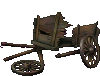
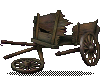
Stand-ins: tidy the roadmap, paint two barrels, ground the painted props
The roadmap still listed as stand-ins several things Phase 20 had
already drawn by hand: the five-angle enemies, the ceilings, the sky
panoramas and the Kestrel flyover, the item icons and the Chapel seen
beyond the Hedge. Those lines are ticked with what shipped, the
festivals line names the four Phase 12 festivals (Hearthday is a
weekday, not a feast), and the partly painted props, flora and decals
lines say exactly which stand-ins are left.

Painting goes on through Canva's image generator, the one source this
session can reach: the open barrel and the barrel on its side, keyed by
tools/art/painted20/key.py and given depth by the pixel-3D bake. The
keying now lays each prop's drawn stand-in contact shadow under the
painting (the Phase 20b props seemed to hover over the lighting
module's soft shadow without it); the bake keeps those pixels flat.

Claude-Session: https://claude.ai/code/session_01BVzyvAqHcu7M4NDDh1GVjc

diff --git a/js/pixel3d.js b/js/pixel3d.js
@@ -35,7 +35,7 @@ const PIXEL3D = (() => {
   const POSES = ['', '_w1', '_w2', '_a1', '_a2'];
   // model -> { f: file, v: version, k: 'creature' | 'prop', c: { 'view|pose': [x, y, w, h, hs, cx, dy] } }
   // @@ATLAS-BEGIN (generated by tools/art/pixel3d/voxelise.py; do not edit by hand)
-  const ATLAS = {"bed":{"f":"bed.png","v":"63bf5246","k":"prop","c":{"0|":[0,0,130,90,1.0,0.5,0.003]}},"grave":{"f":"grave.png","v":"81536eb2","k":"prop","c":{"0|":[0,0,76,110,1.0,0.5,-0.0021]}},"gear":{"f":"gear.png","v":"bbdba8ce","k":"prop","c":{"0|":[0,0,140,85,1.0,0.5036,0.0018]}},"cocoon":{"f":"cocoon.png","v":"92fe7d59","k":"prop","c":{"0|":[0,0,41,158,0.9875,0.5,-0.0125]}},"loot":{"f":"loot.png","v":"b66efd2b","k":"prop","c":{"0|":[0,0,126,110,1.0,0.5,0.0002]}},"cores":{"f":"cores.png","v":"51d57000","k":"prop","c":{"0|":[0,0,79,90,1.0,0.5,0.0014]}},"grate":{"f":"grate.png","v":"46d31249","k":"prop","c":{"0|":[0,0,147,110,1.0,0.5,0.0004]}},"p_barrel":{"f":"p_barrel.png","v":"3caab7d7","k":"prop","c":{"0|":[0,0,41,64,1.0,0.5,-0.0006]}},"crates":{"f":"crates.png","v":"f5cf87d3","k":"prop","c":{"0|":[0,0,71,110,1.0,0.5,-0.0039]}},"loom":{"f":"loom.png","v":"44138bac","k":"prop","c":{"0|":[0,0,94,150,1.0,0.5,-0.0018]}},"hearth":{"f":"hearth.png","v":"b5ba60f1","k":"prop","c":{"0|":[0,0,96,130,1.0,0.5,0.0003]}},"lever":{"f":"lever.png","v":"7a4ae036","k":"prop","c":{"0|":[0,0,52,111,1.0091,0.5,0.0041]}},"lifttank":{"f":"lifttank.png","v":"0eeaa700","k":"prop","c":{"0|":[0,0,61,140,1.0,0.5,0.0015]}},"lamp":{"f":"lamp.png","v":"cb44c707","k":"prop","c":{"0|":[0,0,28,108,0.9818,0.5,-0.0032]}},"basin":{"f":"basin.png","v":"06070993","k":"prop","c":{"0|":[0,0,81,90,1.0,0.5,0.002]}},"web":{"f":"web.png","v":"bf69ca17","k":"prop","c":{"0|":[0,0,74,110,1.0,0.5,-0.0028]}},"p_crate":{"f":"p_crate.png","v":"92f1e068","k":"prop","c":{"0|":[0,0,51,56,1.0,0.5098,-0.0052]}},"chest":{"f":"chest.png","v":"a5d98ef9","k":"prop","c":{"0|":[0,0,140,109,1.0,0.5036,-0.0008]}},"press":{"f":"press.png","v":"b872f91d","k":"prop","c":{"0|":[0,0,60,110,1.0,0.5083,-0.0009]}},"chair":{"f":"chair.png","v":"82c2c4c8","k":"prop","c":{"0|":[0,0,49,109,0.9909,0.5,0.0033]}},"coil":{"f":"coil.png","v":"c15d7d5e","k":"prop","c":{"0|":[0,0,28,104,0.9455,0.5,-0.0214]}},"kestrel":{"f":"kestrel.png","v":"b27066e1","k":"prop","c":{"0|":[0,0,276,170,1.0,0.5,-0.0015]}},"pump":{"f":"pump.png","v":"05fa0b8c","k":"prop","c":{"0|":[0,0,87,150,1.0,0.5,0.0019]}},"sign":{"f":"sign.png","v":"b2df66ca","k":"prop","c":{"0|":[0,0,64,130,1.0,0.5,0.0033]}},"ladder":{"f":"ladder.png","v":"193abd80","k":"prop","c":{"0|":[0,0,36,200,1.0,0.5,-0.0025]}},"hollow":{"f":"hollow.png","v":"abf9ac45","k":"creature","c":{"0|":[0,0,49,158,0.9875,0.5,-0.0027],"2|":[50,0,21,158,0.9875,0.5,-0.0027],"4|":[72,0,49,158,0.9875,0.5,-0.0027],"6|":[122,0,21,158,0.9875,0.5,-0.0027],"0|_w1":[0,159,49,158,0.9875,0.5,-0.0027],"2|_w1":[50,159,21,158,0.9875,0.5,-0.0027],"4|_w1":[72,159,49,158,0.9875,0.5,-0.0027],"6|_w1":[122,159,21,158,0.9875,0.5,-0.0027],"0|_w2":[0,318,49,158,0.9875,0.5,-0.0027],"2|_w2":[50,318,21,158,0.9875,0.5,-0.0027],"4|_w2":[72,318,49,158,0.9875,0.5,-0.0027],"6|_w2":[122,318,21,158,0.9875,0.5,-0.0027],"0|_a1":[0,477,49,158,0.9875,0.5,-0.0027],"2|_a1":[50,477,21,158,0.9875,0.5,-0.0027],"4|_a1":[72,477,49,158,0.9875,0.5,-0.0027],"6|_a1":[122,477,21,158,0.9875,0.5,-0.0027],"0|_a2":[0,636,49,158,0.9875,0.5,-0.0027],"2|_a2":[50,636,21,158,0.9875,0.5,-0.0027],"4|_a2":[72,636,49,158,0.9875,0.5,-0.0027],"6|_a2":[122,636,21,158,0.9875,0.5,-0.0027]}},"orla":{"f":"orla.png","v":"4d2e34da","k":"creature","c":{"0|":[0,0,77,120,1.0,0.5,-0.0026],"2|":[78,0,39,120,1.0,0.5,-0.0026],"4|":[118,0,77,120,1.0,0.5,-0.0026],"6|":[196,0,39,120,1.0,0.5,-0.0026],"0|_w1":[0,121,77,120,1.0,0.5,-0.0026],"2|_w1":[78,121,39,120,1.0,0.5,-0.0026],"4|_w1":[118,121,77,120,1.0,0.5,-0.0026],"6|_w1":[196,121,39,120,1.0,0.5,-0.0026],"0|_w2":[0,242,77,120,1.0,0.5,-0.0026],"2|_w2":[78,242,39,120,1.0,0.5,-0.0026],"4|_w2":[118,242,77,120,1.0,0.5,-0.0026],"6|_w2":[196,242,39,120,1.0,0.5,-0.0026],"0|_a1":[0,363,77,120,1.0,0.5,-0.0026],"2|_a1":[78,363,39,120,1.0,0.5,-0.0026],"4|_a1":[118,363,77,120,1.0,0.5,-0.0026],"6|_a1":[196,363,39,120,1.0,0.5,-0.0026],"0|_a2":[0,484,77,120,1.0,0.5,-0.0026],"2|_a2":[78,484,39,120,1.0,0.5,-0.0026],"4|_a2":[118,484,77,120,1.0,0.5,-0.0026],"6|_a2":[196,484,39,120,1.0,0.5,-0.0026]}},"cutter":{"f":"cutter.png","v":"85a3cf9a","k":"creature","c":{"0|":[0,0,110,170,1.0,0.5,-0.0033],"2|":[111,0,64,170,1.0,0.5,-0.0033],"4|":[176,0,110,170,1.0,0.5,-0.0033],"6|":[287,0,64,170,1.0,0.5,-0.0033],"0|_w1":[0,171,110,170,1.0,0.5,-0.0033],"2|_w1":[111,171,64,170,1.0,0.5,-0.0033],"4|_w1":[176,171,110,170,1.0,0.5,-0.0033],"6|_w1":[287,171,64,170,1.0,0.5,-0.0033],"0|_w2":[0,342,110,170,1.0,0.5,-0.0033],"2|_w2":[111,342,64,170,1.0,0.5,-0.0033],"4|_w2":[176,342,110,170,1.0,0.5,-0.0033],"6|_w2":[287,342,64,170,1.0,0.5,-0.0033],"0|_a1":[0,513,110,170,1.0,0.5,-0.0033],"2|_a1":[111,513,64,170,1.0,0.5,-0.0033],"4|_a1":[176,513,110,170,1.0,0.5,-0.0033],"6|_a1":[287,513,64,170,1.0,0.5,-0.0033],"0|_a2":[0,684,110,170,1.0,0.5,-0.0033],"2|_a2":[111,684,64,170,1.0,0.5,-0.0033],"4|_a2":[176,684,110,170,1.0,0.5,-0.0033],"6|_a2":[287,684,64,170,1.0,0.5,-0.0033]}},"table":{"f":"table.png","v":"a8a1a069","k":"prop","c":{"0|":[0,0,145,99,0.99,0.5,0.0011]}},"tomb":{"f":"tomb.png","v":"477303c1","k":"prop","c":{"0|":[0,0,152,90,1.0,0.5,-0.0002]}},"bore":{"f":"bore.png","v":"58861b08","k":"prop","c":{"0|":[0,0,107,219,0.9955,0.5,0.0008]}},"cloaks":{"f":"cloaks.png","v":"e246d8eb","k":"prop","c":{"0|":[0,0,94,100,1.0,0.5,-0.0018]}},"bones":{"f":"bones.png","v":"42e9d09d","k":"prop","c":{"0|":[0,0,330,110,1.0,0.5,-0.0002]}},"bigbell":{"f":"bigbell.png","v":"536bfe29","k":"prop","c":{"0|":[0,0,98,149,0.9933,0.5,-0.0073]}},"hymnboard":{"f":"hymnboard.png","v":"92b8641e","k":"prop","c":{"0|":[0,0,37,120,1.0,0.5,-0.0035]}},"shelf":{"f":"shelf.png","v":"c47a7546","k":"prop","c":{"0|":[0,0,80,150,1.0,0.5,-0.0]}}};
+  const ATLAS = {"bed":{"f":"bed.png","v":"63bf5246","k":"prop","c":{"0|":[0,0,130,90,1.0,0.5,0.003]}},"grave":{"f":"grave.png","v":"81536eb2","k":"prop","c":{"0|":[0,0,76,110,1.0,0.5,-0.0021]}},"gear":{"f":"gear.png","v":"bbdba8ce","k":"prop","c":{"0|":[0,0,140,85,1.0,0.5036,0.0018]}},"cocoon":{"f":"cocoon.png","v":"92fe7d59","k":"prop","c":{"0|":[0,0,41,158,0.9875,0.5,-0.0125]}},"loot":{"f":"loot.png","v":"b66efd2b","k":"prop","c":{"0|":[0,0,126,110,1.0,0.5,0.0002]}},"cores":{"f":"cores.png","v":"51d57000","k":"prop","c":{"0|":[0,0,79,90,1.0,0.5,0.0014]}},"grate":{"f":"grate.png","v":"46d31249","k":"prop","c":{"0|":[0,0,147,110,1.0,0.5,0.0004]}},"p_barrel":{"f":"p_barrel.png","v":"65c6c683","k":"prop","c":{"0|":[0,0,44,64,1.0,0.4886,0.0004]}},"crates":{"f":"crates.png","v":"f5cf87d3","k":"prop","c":{"0|":[0,0,71,110,1.0,0.5,-0.0039]}},"loom":{"f":"loom.png","v":"44138bac","k":"prop","c":{"0|":[0,0,94,150,1.0,0.5,-0.0018]}},"hearth":{"f":"hearth.png","v":"b5ba60f1","k":"prop","c":{"0|":[0,0,96,130,1.0,0.5,0.0003]}},"lever":{"f":"lever.png","v":"7a4ae036","k":"prop","c":{"0|":[0,0,52,111,1.0091,0.5,0.0041]}},"lifttank":{"f":"lifttank.png","v":"0eeaa700","k":"prop","c":{"0|":[0,0,61,140,1.0,0.5,0.0015]}},"lamp":{"f":"lamp.png","v":"cb44c707","k":"prop","c":{"0|":[0,0,28,108,0.9818,0.5,-0.0032]}},"basin":{"f":"basin.png","v":"06070993","k":"prop","c":{"0|":[0,0,81,90,1.0,0.5,0.002]}},"web":{"f":"web.png","v":"bf69ca17","k":"prop","c":{"0|":[0,0,74,110,1.0,0.5,-0.0028]}},"p_crate":{"f":"p_crate.png","v":"031bd45a","k":"prop","c":{"0|":[0,0,51,56,1.0,0.4902,-0.0052]}},"chest":{"f":"chest.png","v":"a5d98ef9","k":"prop","c":{"0|":[0,0,140,109,1.0,0.5036,-0.0008]}},"press":{"f":"press.png","v":"b872f91d","k":"prop","c":{"0|":[0,0,60,110,1.0,0.5083,-0.0009]}},"chair":{"f":"chair.png","v":"82c2c4c8","k":"prop","c":{"0|":[0,0,49,109,0.9909,0.5,0.0033]}},"coil":{"f":"coil.png","v":"c15d7d5e","k":"prop","c":{"0|":[0,0,28,104,0.9455,0.5,-0.0214]}},"kestrel":{"f":"kestrel.png","v":"b27066e1","k":"prop","c":{"0|":[0,0,276,170,1.0,0.5,-0.0015]}},"pump":{"f":"pump.png","v":"05fa0b8c","k":"prop","c":{"0|":[0,0,87,150,1.0,0.5,0.0019]}},"sign":{"f":"sign.png","v":"b2df66ca","k":"prop","c":{"0|":[0,0,64,130,1.0,0.5,0.0033]}},"ladder":{"f":"ladder.png","v":"193abd80","k":"prop","c":{"0|":[0,0,36,200,1.0,0.5,-0.0025]}},"hollow":{"f":"hollow.png","v":"abf9ac45","k":"creature","c":{"0|":[0,0,49,158,0.9875,0.5,-0.0027],"2|":[50,0,21,158,0.9875,0.5,-0.0027],"4|":[72,0,49,158,0.9875,0.5,-0.0027],"6|":[122,0,21,158,0.9875,0.5,-0.0027],"0|_w1":[0,159,49,158,0.9875,0.5,-0.0027],"2|_w1":[50,159,21,158,0.9875,0.5,-0.0027],"4|_w1":[72,159,49,158,0.9875,0.5,-0.0027],"6|_w1":[122,159,21,158,0.9875,0.5,-0.0027],"0|_w2":[0,318,49,158,0.9875,0.5,-0.0027],"2|_w2":[50,318,21,158,0.9875,0.5,-0.0027],"4|_w2":[72,318,49,158,0.9875,0.5,-0.0027],"6|_w2":[122,318,21,158,0.9875,0.5,-0.0027],"0|_a1":[0,477,49,158,0.9875,0.5,-0.0027],"2|_a1":[50,477,21,158,0.9875,0.5,-0.0027],"4|_a1":[72,477,49,158,0.9875,0.5,-0.0027],"6|_a1":[122,477,21,158,0.9875,0.5,-0.0027],"0|_a2":[0,636,49,158,0.9875,0.5,-0.0027],"2|_a2":[50,636,21,158,0.9875,0.5,-0.0027],"4|_a2":[72,636,49,158,0.9875,0.5,-0.0027],"6|_a2":[122,636,21,158,0.9875,0.5,-0.0027]}},"orla":{"f":"orla.png","v":"4d2e34da","k":"creature","c":{"0|":[0,0,77,120,1.0,0.5,-0.0026],"2|":[78,0,39,120,1.0,0.5,-0.0026],"4|":[118,0,77,120,1.0,0.5,-0.0026],"6|":[196,0,39,120,1.0,0.5,-0.0026],"0|_w1":[0,121,77,120,1.0,0.5,-0.0026],"2|_w1":[78,121,39,120,1.0,0.5,-0.0026],"4|_w1":[118,121,77,120,1.0,0.5,-0.0026],"6|_w1":[196,121,39,120,1.0,0.5,-0.0026],"0|_w2":[0,242,77,120,1.0,0.5,-0.0026],"2|_w2":[78,242,39,120,1.0,0.5,-0.0026],"4|_w2":[118,242,77,120,1.0,0.5,-0.0026],"6|_w2":[196,242,39,120,1.0,0.5,-0.0026],"0|_a1":[0,363,77,120,1.0,0.5,-0.0026],"2|_a1":[78,363,39,120,1.0,0.5,-0.0026],"4|_a1":[118,363,77,120,1.0,0.5,-0.0026],"6|_a1":[196,363,39,120,1.0,0.5,-0.0026],"0|_a2":[0,484,77,120,1.0,0.5,-0.0026],"2|_a2":[78,484,39,120,1.0,0.5,-0.0026],"4|_a2":[118,484,77,120,1.0,0.5,-0.0026],"6|_a2":[196,484,39,120,1.0,0.5,-0.0026]}},"cutter":{"f":"cutter.png","v":"85a3cf9a","k":"creature","c":{"0|":[0,0,110,170,1.0,0.5,-0.0033],"2|":[111,0,64,170,1.0,0.5,-0.0033],"4|":[176,0,110,170,1.0,0.5,-0.0033],"6|":[287,0,64,170,1.0,0.5,-0.0033],"0|_w1":[0,171,110,170,1.0,0.5,-0.0033],"2|_w1":[111,171,64,170,1.0,0.5,-0.0033],"4|_w1":[176,171,110,170,1.0,0.5,-0.0033],"6|_w1":[287,171,64,170,1.0,0.5,-0.0033],"0|_w2":[0,342,110,170,1.0,0.5,-0.0033],"2|_w2":[111,342,64,170,1.0,0.5,-0.0033],"4|_w2":[176,342,110,170,1.0,0.5,-0.0033],"6|_w2":[287,342,64,170,1.0,0.5,-0.0033],"0|_a1":[0,513,110,170,1.0,0.5,-0.0033],"2|_a1":[111,513,64,170,1.0,0.5,-0.0033],"4|_a1":[176,513,110,170,1.0,0.5,-0.0033],"6|_a1":[287,513,64,170,1.0,0.5,-0.0033],"0|_a2":[0,684,110,170,1.0,0.5,-0.0033],"2|_a2":[111,684,64,170,1.0,0.5,-0.0033],"4|_a2":[176,684,110,170,1.0,0.5,-0.0033],"6|_a2":[287,684,64,170,1.0,0.5,-0.0033]}},"table":{"f":"table.png","v":"a8a1a069","k":"prop","c":{"0|":[0,0,145,99,0.99,0.5,0.0011]}},"tomb":{"f":"tomb.png","v":"477303c1","k":"prop","c":{"0|":[0,0,152,90,1.0,0.5,-0.0002]}},"bore":{"f":"bore.png","v":"58861b08","k":"prop","c":{"0|":[0,0,107,219,0.9955,0.5,0.0008]}},"cloaks":{"f":"cloaks.png","v":"e246d8eb","k":"prop","c":{"0|":[0,0,94,100,1.0,0.5,-0.0018]}},"bones":{"f":"bones.png","v":"42e9d09d","k":"prop","c":{"0|":[0,0,330,110,1.0,0.5,-0.0002]}},"bigbell":{"f":"bigbell.png","v":"536bfe29","k":"prop","c":{"0|":[0,0,98,149,0.9933,0.5,-0.0073]}},"hymnboard":{"f":"hymnboard.png","v":"92b8641e","k":"prop","c":{"0|":[0,0,37,120,1.0,0.5,-0.0035]}},"shelf":{"f":"shelf.png","v":"c47a7546","k":"prop","c":{"0|":[0,0,80,150,1.0,0.5,-0.0]}},"p_barrel_open":{"f":"p_barrel_open.png","v":"e8a496ca","k":"prop","c":{"0|":[0,0,44,62,0.9688,0.4886,0.0006]}},"p_barrel_side":{"f":"p_barrel_side.png","v":"718785a5","k":"prop","c":{"0|":[0,0,61,45,0.9375,0.5246,-0.0194]}}};
   // @@ATLAS-END
   const atl = {}, cache = new Map();
   let bytes = 0, stamp = 0;

diff --git a/sw.js b/sw.js
@@ -18,7 +18,7 @@
 //
 // <precache:begin>
 // Generated by tools/pwa/precache.js from index.html and the asset folders. Do not edit by hand; run the tool.
-const BUILD = "fafa4e0005e7";
+const BUILD = "8b09bc106e93";
 const MEDIA_BUILD = "3057f69a4556";
 const MEDIA_BYTES = 56299376;
 const CORE = [
@@ -121,6 +121,8 @@ const CORE = [
   "img/painted20/d_poster1.png",
   "img/painted20/d_synod1.png",
   "img/painted20/p_barrel.png",
+  "img/painted20/p_barrel_open.png",
+  "img/painted20/p_barrel_side.png",
   "img/painted20/p_bones_small.png",
   "img/painted20/p_cart.png",
   "img/painted20/p_cart_broken.png",
@@ -157,6 +159,8 @@ const CORE = [
   "img/pixel3d/loot.png",
   "img/pixel3d/orla.png",
   "img/pixel3d/p_barrel.png",
+  "img/pixel3d/p_barrel_open.png",
+  "img/pixel3d/p_barrel_side.png",
   "img/pixel3d/p_crate.png",
   "img/pixel3d/press.png",
   "img/pixel3d/pump.png",

diff --git a/js/painted20.js b/js/painted20.js
@@ -397,6 +397,7 @@ const PAINTED20 = (() => {
     p_barrel: 'img/painted20/p_barrel.png', p_cart: 'img/painted20/p_cart.png', p_grass1: 'img/painted20/p_grass1.png', p_grass2: 'img/painted20/p_grass2.png', p_reed1: 'img/painted20/p_reed1.png',
     p_crate: 'img/painted20/p_crate.png', p_statue_broken: 'img/painted20/p_statue_broken.png', p_bones_small: 'img/painted20/p_bones_small.png', p_cart_broken: 'img/painted20/p_cart_broken.png',
     d_poster1: 'img/painted20/d_poster1.png', d_synod1: 'img/painted20/d_synod1.png', d_moss1: 'img/painted20/d_moss1.png',
+    p_barrel_open: 'img/painted20/p_barrel_open.png', p_barrel_side: 'img/painted20/p_barrel_side.png',
   };
   const pieces = {};   // name -> { data, w, h, orig }
   let piecesLoading = false;

diff --git a/tools/art/painted20/key.py b/tools/art/painted20/key.py
@@ -17,6 +17,15 @@ import numpy as np
 HERE = os.path.dirname(os.path.abspath(__file__))
 ROOT = os.path.abspath(os.path.join(HERE, '..', '..', '..'))
 OUT = os.path.join(ROOT, 'img', 'painted20')
+# the drawn stand-ins' dithered contact shadows (js/scenery.js paint() opts.shadow: cx, cy, rx, ry). A painted prop keeps
+# its stand-in's shadow: the piece is fitted so its base stands on row cy, and the same checkerboard is laid under it.
+# Without it the lighting module's soft shadow falls a little in front of the base and the painted props seem to hover.
+SHADOW = {
+    'p_barrel': (24, 60, 22, 4), 'p_barrel_open': (24, 60, 22, 4), 'p_barrel_side': (34, 44, 30, 3), 'p_crate': (28, 53, 25, 3),
+    'p_cart': (50, 73, 40, 3), 'p_cart_broken': (50, 73, 44, 3), 'p_statue_broken': (28, 97, 26, 3),
+    'p_statue_broken2': (36, 61, 34, 3), 'p_statue_head': (18, 29, 15, 2.5), 'p_bones_small': (30, 22, 28, 3),
+}
+SHADOW_RGB = (16, 14, 11)   # pixel3d/voxelise.py keeps pixels of exactly this colour flat
 # name, source, target (w, h), options: pad (transparent rows kept under the piece), key strength
 PIECES = [
     ('p_barrel', 'barrel.png', (48, 64), {}),
@@ -32,6 +41,9 @@ PIECES = [
     ('d_synod1', 'synod.png', (64, 64), {'margin': 3}),
     ('d_moss1', 'moss.png', (64, 64), {'margin': 1}),
     ('p_bones_small', 'bones.png', (60, 26), {'anchor': 'bottom'}),
+    # the Phase 20 roadmap's remaining drawn stand-ins, painted the same way (October 2026)
+    ('p_barrel_open', 'barrel_open.png', (48, 64), {'anchor': 'bottom', 'margin': 2}),
+    ('p_barrel_side', 'barrel_side.png', (72, 48), {'anchor': 'bottom', 'margin': 2}),
 ]
 
 
@@ -54,17 +66,19 @@ def finish(img, size, opts):
     bbox = img.split()[3].point(lambda v: 255 if v > 90 else 0).getbbox()
     if bbox: img = img.crop(bbox)
     if opts.get('flip'): img = img.transpose(Image.FLIP_LEFT_RIGHT)
+    sh_ = opts.get('shadow')
     if opts.get('fill'):
         out = img.resize((w, h), Image.BOX)
     else:
         sw, sh = img.size
         mg = opts.get('margin', 0)
-        k = min((w - 2 * mg) / sw, (h - 2 * mg) / sh)
+        mgb = (h - 1 - int(sh_[1])) if sh_ else mg   # with a shadow, the base stands on its row
+        k = min((w - 2 * mg) / sw, (h - mg - mgb) / sh)
         tw, th = max(1, round(sw * k)), max(1, round(sh * k))
         small = img.resize((tw, th), Image.BOX)
         out = Image.new('RGBA', (w, h), (0, 0, 0, 0))
         ox = (w - tw) // 2
-        oy = h - th - mg if opts.get('anchor') == 'bottom' else (h - th) // 2
+        oy = h - th - mgb if (opts.get('anchor') == 'bottom' or sh_) else (h - th) // 2
         out.paste(small, (ox, oy))
     a = np.asarray(out).astype(np.int32)
     rgb, al = a[..., :3], a[..., 3]
@@ -73,7 +87,13 @@ def finish(img, size, opts):
     rgb = (rgb // 6) * 6 + 3
     rim = solid & ~(np.roll(solid, 1, 0) & np.roll(solid, -1, 0) & np.roll(solid, 1, 1) & np.roll(solid, -1, 1))
     rgb = np.where(rim[..., None], rgb * 0.62, rgb)
-    final = np.dstack([np.clip(rgb, 0, 255), np.where(solid, 255, 0)]).astype(np.uint8)
+    rgb = np.clip(rgb, 0, 255); alpha = np.where(solid, 255, 0)
+    if sh_:
+        cx, cy, rx, ry = sh_
+        yy, xx = np.mgrid[0:h, 0:w]
+        ring = (((xx - cx) / rx) ** 2 + ((yy - cy) / ry) ** 2 <= 1) & ~solid & (((xx + yy) & 1) == 0)
+        rgb = np.where(ring[..., None], np.array(SHADOW_RGB), rgb); alpha = np.where(ring, 255, alpha)
+    final = np.dstack([rgb, alpha]).astype(np.uint8)
     return Image.fromarray(final, 'RGBA')
 
 
@@ -81,6 +101,7 @@ def main():
     os.makedirs(OUT, exist_ok=True)
     sheet = []
     for name, src, size, opts in PIECES:
+        if name in SHADOW: opts = dict(opts, shadow=SHADOW[name])
         img = finish(key(Image.open(os.path.join(HERE, 'src', src))), size, opts)
         img.save(os.path.join(OUT, name + '.png'))
         sheet.append(img)

diff --git a/tools/art/pixel3d/voxelise.py b/tools/art/pixel3d/voxelise.py
@@ -49,6 +49,8 @@ for n in PEOPLE: SPECIES[n] = dict(k=0.6)
 for n, k in PROPS.items(): SPECIES[n] = dict(prop=True, k=k)
 SPECIES['p_barrel'] = dict(prop=True, k=1.0, file='img/painted20/p_barrel.png')
 SPECIES['p_crate'] = dict(prop=True, k=0.9, file='img/painted20/p_crate.png')
+SPECIES['p_barrel_open'] = dict(prop=True, k=1.0, file='img/painted20/p_barrel_open.png')
+SPECIES['p_barrel_side'] = dict(prop=True, k=0.45, file='img/painted20/p_barrel_side.png')   # lying down: its rows run along the staves, so a shallow section
 # kept painted: the swarms and the moth (symmetric blobs), A Quiet (an absence with smoke), the cat, the fire, footprints, the trees
 BACK = 0.9           # the back faces: the mirrored painting, this much darker (the sun does the rest)
 SIDE = 0.88          # the voxel faces to the left and right
@@ -129,6 +131,9 @@ def build_mesh(name, img, meta, spec):
     the model's extents and its pixels per unit."""
     a = np.asarray(img); H, W = a.shape[:2]
     solid = a[..., 3] > 100
+    # a painted prop's dithered contact shadow (tools/art/painted20/key.py SHADOW_RGB) stays flat on the front plane
+    flat = solid & (a[..., 0] == 16) & (a[..., 1] == 14) & (a[..., 2] == 11)
+    solid = solid & ~flat
     hs = float(meta.get('hs', 1.0)); cx = float(meta.get('cx', 0.5))
     side = bool(spec.get('side')); k = spec.get('k', 0.6)
     depth = occupancy(solid, k, side)
@@ -138,6 +143,8 @@ def build_mesh(name, img, meta, spec):
         for x in range(W):
             if solid[y, x]:
                 d = depth[y, x]; occ[y, x, D - d:D + d + 1] = True
+            elif flat[y, x]:
+                occ[y, x, D] = True
     s = hs / H                                   # world units per voxel
     px_per_unit = H / hs
     rgb = a[..., :3].astype(np.float32)

diff --git a/ROADMAP.md b/ROADMAP.md
@@ -36,21 +36,21 @@ Phase 2 requires per-pixel depth, camera elevation, collision and picking to agr
 Every phase must retain the security regression tests and save/load behavior. Rendering changes need browser screenshots (day/night, indoor/outdoor, near/far), representative frame-time measurements before performance claims, and keyboard/touch/gamepad regression checks. Target low-end presets only after measurements on representative hardware; do not promise Chromebook frame rates from a server benchmark.
 
 ### Graphics — 3D view
-- [~] Five-angle enemies: front/front-side/side/back-side/back, mirror opposite views. The Proctor pilot is hand-built pixel art; every other species now has procedural stand-in views built from its current pose frame (`js/directions.js`: squeezed, one-side-shaded sides; mirrored, face-recoloured backs; swarm, hush-moth and horn stay symmetric; 4 MB cache). **Final painted directional action sheets remain pending.**
+- [x] Five-angle enemies: front/front-side/side/back-side/back, mirror opposite views. Phase 20 replaced `js/directions.js`'s squeezed stand-ins with hand-built views for every species, each cut from the species' own painting, turned on a rig and re-lit (`js/bestiary20a.js`, `js/bestiary20b.js`; swarm, hush-moth and horn stay symmetric by design); Phase 25 snaps them to the four sides the owner asked for (front, left, back, right), and rigs the Proctor, the companions and every named person the same way (`js/people25.js`).
 - [~] Horizon country: layered hill, mountain-range and cliff-shoulder silhouettes per outdoor map, with lumpy crests, snow caps, a sun and moon that cross the sky, drawn cloud cover and per-layer aerial perspective. The distant ridges are still scenery you cannot reach; near country is now real ground (see the next item). The fixed-bearing Chapel spire-line and Mausoleum-tower silhouettes were retired once those buildings became real geometry.
-- [~] Walkable hills, mountains and cliff faces: cell heights (`map.lvls`) plus sloped ground from corner heights (`map.verts`/`map.smooth`, shaped with `hill()`, `ramp()` and crag `steep` flanks). Feet follow a slope continuously; a slope steeper than 1.1 rise per run (`MAX_GRADE`) cannot be climbed; coming down a rock face is a tumble scored at 12 health per unit past 0.9 (a sheer drop stays 26). Authored: the Deep Woods' Mausoleum rise, willow hill, west knoll and crag; the clearing's south-west rise; the Watch-stone. Picking, sprites and the automap agree with height. **Still to do: walkable horizon country (the Grey Teeth are silhouettes), larger height-mapped regions beyond these maps' walls, and pathing that also routes around solid props (enemies now route around crags and terraces with `js/pathing.js`, but not around trees and crates).**
+- [~] Walkable hills, mountains and cliff faces: cell heights (`map.lvls`) plus sloped ground from corner heights (`map.verts`/`map.smooth`, shaped with `hill()`, `ramp()` and crag `steep` flanks). Feet follow a slope continuously; a slope steeper than 1.1 rise per run (`MAX_GRADE`) cannot be climbed; coming down a rock face is a tumble scored at 12 health per unit past 0.9 (a sheer drop stays 26). Authored: the Deep Woods' Mausoleum rise, willow hill, west knoll and crag; the clearing's south-west rise; the Watch-stone. Picking, sprites and the automap agree with height. Phase 20 and 22 made the Watch Downs and Wethercombe walkable country beyond the walls. **Still to do: the Grey Teeth stay silhouettes, and pathing that also routes around solid props (enemies route around crags and terraces with `js/pathing.js`, but not around trees and crates).**
 - [x] Variable-height low walls, tall towers and stepped rooftops; correct occlusion behind low walls: a cell's absolute top (`c.top`, helpers `block()`/`lowWall()`) is drawn as a face plus a visible cap when below the eye, and rays keep walking past tall faces while anything taller could still show. Occlusion is a per-pixel depth buffer, not two faces per column. Authored: Oakhaven's stepped roofline on every building, the Chapel bell-tower, Greenhall dome, mooring mast, knee-high bell-plinth and bridge parapets; the clearing's dry-stone field wall; the Mausoleum's stepped roof and tower. Verified: a figure behind the field wall shows above the cap and leaks no pixels below it. Rooftops and upper storeys are scenery, not floors you can walk.
 - [x] Stairs, ramps, raised platforms: the Watch-stone stair, the timber hound-watch stand, the Bell-Tower's six-step timber stair to a railed 1.8 gallery beside the great bell (with an open edge you can fall from) under a 3.3 ceiling, and the Quarry depot's 1.2 terrace reached by an authored `ramp()` at grade 0.4. Verified in `test/traversal.test.js`: continuous climbs, railings refuse you, edges hurt, saves restore your height, every usable object stays reachable.
-- [~] Painted Cloister ceilings, tavern beams and cave rock ceilings: per-cell ceiling textures (`map.ceilCells`) with procedural stand-ins — timber beams over smoke-stained plaster in every timber interior, a ribbed lilac-and-gold vault in the Cloister and Chapel, rough rock in the quarry, caves and dungeons (`js/ceilings.js`, `GFX.ceilings`). **Final painted ceilings pending.**
-- [~] Sky: sun and moon with dawn/dusk glow, weather-driven clouds, a sky that grades by hour; now night stars that turn with the view and hide under cloud, painted area panoramas behind the ridges for each outdoor map, and the Drift-Kestrel crossing the Whisper-Grove and Deep Woods skies on a schedule (`js/sky.js`). Stars are done; **the panoramas and the flyover sprite are procedural stand-ins pending final art.**
+- [x] Painted Cloister ceilings, tavern beams and cave rock ceilings: per-cell ceiling textures (`map.ceilCells`): timber beams over smoke-stained plaster in every timber interior, a ribbed lilac-and-gold vault in the Cloister and Chapel, rough rock in the quarry, caves and dungeons (`js/ceilings.js`, `GFX.ceilings`). Phase 20 replaced the procedural stand-ins with three hand-built 64x64 pixel-art tiles.
+- [x] Sky: sun and moon with dawn/dusk glow, weather-driven clouds, a sky that grades by hour; night stars that turn with the view and hide under cloud, area panoramas behind the ridges for each outdoor map, and the Drift-Kestrel crossing the Whisper-Grove and Deep Woods skies on a schedule (`js/sky.js`). Phase 20 redrew the panoramas (with the landmark ridges baked in) and the flyover ship as hand-built pixel art.
 - [x] Water sky/building reflections and step-driven ripples: screen-space reflections on every water and shallows pixel (sky, walls and sprites mirrored about the waterline, faded by distance and angle), and expanding world-space rings from your footsteps and from wading NPCs and enemies (`js/water.js`, `GFX.reflections`). Works on every map with water.
 - [x] Light-glass emissive highlights and nearby wall light: lights no longer shine through walls (per-light visibility masks, still carried over knee-high walls), and emissive masks make Kaelen's glass arm, shards, glass lamps and flames render at full brightness in the dark (`js/lighting.js`, `GFX.emissive`). The engine marks those pixels as glow so bloom lights only real lights.
 - [x] Ground-hugging mist and darkness: weather mist plus permanent area mist in Whisper-Grove, the Deep Woods, the catacombs, the Mausoleum, the belfry and the clearing at night (`js/post.js`); torch-driven interiors — rooms are dark away from their lamps and hearths, and the lantern (U) lights the floor around you indoors and outdoors at night (`js/lighting.js`, `GFX.darkInteriors`).
 - [~] Higher-detail close-up wall artwork with asset-resolution and memory budgets: a close-range grain (stone grit and wood fibre) modulates walls within 2.5 units (`Engine.setDetail`), and every generated texture is counted against a 512 KB budget (256 KB used, pinned by `test/surfaces.test.js`). **Hand-made close-up art and resolution tiers pending.**
-- [~] Moss, cracks, scorch marks, posters and Synod notices as seeded wall detail layers: twelve procedural decals placed deterministically per map — posters and Synod notices on Oakhaven walls by the cobbles (more by the Chapel and Greenhall), moss outdoors and in damp places, scorch in the quarry and dungeons, cracks in stone interiors (`js/decals.js`, `GFX.decals`). **Final painted decals pending.**
-- [~] More barrels, crates, carts, broken statues, graves and bones, placed without blocking routes: procedural props in Oakhaven, the clearing, the quarry, the Deep Woods, Whisper-Grove and the catacombs, each accepted only if a flood fill still reaches every door, portal, NPC, item and usable object, kept 1.6 from doors and off the roads (`js/scenery.js`). Transient: never saved, rebuilt on load. **Final painted prop art pending.**
-- [~] Swaying, player-reactive grass and reeds: up to 120 tufts per outdoor map, reeds along banks and shallows, swaying with the weather's wind and bending away from you (more when running) (`js/flora.js`, `GFX.grass`). **Final painted grass and reed art pending.**
-- [~] Geographic landmark placement: the Mausoleum's tower is real geometry on a rise, seen across the Deep Woods from wherever you stand, and the Oakhaven Chapel has a real bell-tower over the town. The Chapel seen from beyond the Hedge (in the clearing) is still a silhouette.
+- [~] Moss, cracks, scorch marks, posters and Synod notices as seeded wall detail layers: twelve decals placed deterministically per map: posters and Synod notices on Oakhaven walls by the cobbles (more by the Chapel and Greenhall), moss outdoors and in damp places, scorch in the quarry and dungeons, cracks in stone interiors (`js/decals.js`, `GFX.decals`). Phase 20b painted a wall notice, a Synod notice and a moss patch (`img/painted20/`). **Still drawn stand-ins: the other mosses, cracks, scorch and the other posters.**
+- [~] More barrels, crates, carts, broken statues, graves and bones, placed without blocking routes: props in Oakhaven, the clearing, the quarry, the Deep Woods, Whisper-Grove and the catacombs, each accepted only if a flood fill still reaches every door, portal, NPC, item and usable object, kept 1.6 from doors and off the roads (`js/scenery.js`). Transient: never saved, rebuilt on load. Phase 20b painted the barrel, crate, hand-cart, broken cart, broken statue and bones, the open and side barrels followed in October 2026, and every painted prop now keeps its stand-in's dithered contact shadow so it stands on the ground; Phase 25 gives the props depth. **Still drawn stand-ins: the second statue and the stone head.**
+- [~] Swaying, player-reactive grass and reeds: up to 120 tufts per outdoor map, reeds along banks and shallows, swaying with the weather's wind and bending away from you (more when running) (`js/flora.js`, `GFX.grass`). Phase 20b painted two grass tufts and a reed. **Still drawn stand-ins: the third tuft and the second reed.**
+- [x] Geographic landmark placement: the Mausoleum's tower is real geometry on a rise, seen across the Deep Woods from wherever you stand, and the Oakhaven Chapel has a real bell-tower over the town. Phase 20 draws Oakhaven, Chapel and all, past the Hedge from the clearing and the Watch Downs (`js/horizon20.js`).
 - [~] Modern look baseline: a 2x internal render resolution (640x300) with sharp or smooth upscaling, softer depth-graded fog, bloom on lamps, glass and fire, and per-area, per-hour colour grades are done (`Engine.setScale`, `js/post.js`, `js/presets.js`). **Higher-detail wall artwork at close range is a procedural stand-in (see above).**
 - [x] Original/Low/Medium/High presets for resolution, view distance, particles and effects, measured per preset before choosing the default (Medium: 1x with every effect on). Options → Graphics & access holds the presets and each setting (`js/presets.js`). See the Phase 2 completion verification for the measured table.
 - [x] Refine optional CRT scanlines and curvature; retain a clean unfiltered setting: fine scanlines and a vignette, an optional curvature illusion that keeps clicks exact, and a clean setting (CRT off, sharp pixels).
@@ -58,7 +58,7 @@ Every phase must retain the security regression tests and save/load behavior. Re
 ### Graphics — menus and screens
 - [~] Carved walnut frames with brass corners on every panel, the title menu, character creation, events, death and ending screens, and the HUD bar (clear of every button, gauge and hit box) (`js/frames.js`). Procedural stand-in; the intro scroll and loading bar keep their old look.
 - [~] Equipment-linked paper doll: armour layers with shaded cloth, leather, mail and plate, the selected weapon and shield shown with their icons, equip/remove controls preserved (`js/icons.js`). Final painted character/gear sheets pending.
-- [~] An icon for every item (weapons, armour, potions, herbs, valuables and all 21 quest items, each distinct) in the inventory, shops, the house chest, the forge and brewing (`js/icons.js`). Procedural stand-in; `ICONS.url()` is where painted art plugs in.
+- [x] An icon for every item (weapons, armour, potions, herbs, valuables and all 21 quest items, each distinct) in the inventory, shops, the house chest, the forge and brewing (`js/icons.js`). Phase 20 gave every catalog id its own hand-built 24x24 pixel drawing; the Phase 5 procedural kinds stay only as the fallback for ids added later without one, and for the paper doll's layers.
 - [~] Angry, sad, afraid and wry portraits for Kaelen, Lyra and 18 other major characters, chosen from what each line says and the tone you chose, never changing dialogue or flags (`js/portraits.js`). Stand-in: colour grades and soft shading of the existing portraits, not repainted expressions.
 - [~] An ink sketch beside each storyline in the logbook: 38 subjects, and every journal entry in the game maps to one (`js/logmap.js`). Procedural stand-in.
 - [~] A painted card for each area family (street, hearth, hall, mill, chapel, Hedge, quarry, roots, grove, woods, crypt, belfry, arena...) appears during the existing half-second fade when you enter a new area; any input dismisses it and it never delays play (`js/screens.js`). Procedural stand-in built partly from the game's own paintings.
@@ -213,7 +213,7 @@ Festivals: kept, as a second layer under the Eight Feasts. Festivals follow the 
 - `[x]` Painted ground (P20b): four grass tiles and two mosses painted at load from each map's own tile, laid cell by cell (clover in the hollows, straw on the flats, trodden earth by roads and doors) on every grass and moss map.
 - `[x]` Painted walls (P20b): three more house fronts and two more stone courses; one face per building or run of wall.
 - `[x]` Tree variety (P20b): the oak in three colours, the willow in two, half of them turned about, by where they stand.
-- `[x]` Painted pieces (P20b): paintings for the barrel, crate, hand-cart, broken cart, broken statue, bones, two grass tufts, a reed, a wall notice, a Synod notice and a moss patch (img/painted20/, from Canva's image generator, keyed by tools/art/painted20/key.py). Still drawn stand-ins: the open and side barrels, the second statue, the stone head, the third tuft, the second reed, the other mosses, cracks, scorch and the other posters; NPCs keep their one painted view (they face you, as in Daggerfall).
+- `[x]` Painted pieces (P20b): paintings for the barrel, crate, hand-cart, broken cart, broken statue, bones, two grass tufts, a reed, a wall notice, a Synod notice and a moss patch (img/painted20/, from Canva's image generator, keyed by tools/art/painted20/key.py). The open and side barrels followed (October 2026). Still drawn stand-ins: the second statue, the stone head, the third tuft, the second reed, the other mosses, cracks, scorch and the other posters; NPCs keep their one painted view (they face you, as in Daggerfall).
 - `[x]` The horizon country (P20 HORIZON, P22, P20b): the Watch Downs and Wethercombe are walkable country beyond the walls; Oakhaven is drawn past the Hedge from the clearing and the Downs; the far ground beyond a map's edge now runs on every outdoor height-mapped map (P20b). The Chapel bell stays undrawn: the story keeps the frame empty until it rings (the belfry and the empty frame are drawn, P20).
 - Owner's decisions: brick nogging on one Oakhaven house in three, keep or cut? Go on with Canva's image generator for the remaining drawn stand-ins, or keep those drawn? (Phase 20b text document.)
 
@@ -283,7 +283,7 @@ Festivals: kept, as a second layer under the Eight Feasts. Festivals follow the 
 - `[x]` Boss trophies for your house (the house exists) (P15)
 
 **World and events**
-- `[x]` Market day in the square (P11) · `[x]` Synod sermons to attend or disrupt (P15) · `[ ]` Festivals such as Hearthday · `[x]` Eclipses (P15)
+- `[x]` Market day in the square (P11) · `[x]` Synod sermons to attend or disrupt (P15) · `[x]` Festivals (P12: the Last Sheaf, the Rite as a false festival, the Eel-Run, the Drowned Lanterns; Hearthday is a weekday of the calendar, not a feast) · `[x]` Eclipses (P15)
 - `[x]` Roadside events on the world map (P15) · `[x]` Buildings burn and are rebuilt; permanent NPC deaths (P15)
 - `[x]` Synod territory spreading on the world map (P15) · `[x]` "Previously..." recap on load (P11)
 

diff --git a/CREDITS.md b/CREDITS.md
@@ -30,7 +30,7 @@ Every sound effect is generated live with WebAudio in `js/audio.js`; no sample f
 - `img/`: 39 images (title, ending, four maps, six creation faces, dialogue portraits). How they were made is **unverified**.
 - `js/assets.js`: embedded wall and floor textures, sprites and first-person weapon art. Origin **unverified**.
 - Procedural stand-ins, drawn by the game's own code with no files: carved frames and brass corners, item icons and paper doll, mood portraits, logbook sketches, area cards, death and ending pictures, directional enemy views, flinches and poses, sky, weather, light, doors, gates, fire and smoke, small creatures. Each awaits painted art. The module list is in `ASSETS.md`.
-- `img/painted20/`: Phase 20b's painted pieces (a barrel, a crate, two carts, a broken statue, bones, two grass tufts, a reed, a wall notice, a Synod notice, a moss patch) were generated with Canva's AI image generator on the owner's account (October 2026) on a flat magenta ground and keyed, cut and scaled to the stand-ins' sizes by `tools/art/painted20/key.py`; the sources are in `tools/art/painted20/src/`. Per Canva's terms for AI-generated content. The painted ground, house fronts, stone courses and the re-coloured trees of `js/painted20.js` are the game's own code, painted at load from the embedded tiles' and sprites' own tones.
+- `img/painted20/`: Phase 20b's painted pieces (a barrel, an open barrel, a barrel on its side, a crate, two carts, a broken statue, bones, two grass tufts, a reed, a wall notice, a Synod notice, a moss patch) were generated with Canva's AI image generator on the owner's account (October 2026) on a flat magenta ground and keyed, cut and scaled to the stand-ins' sizes by `tools/art/painted20/key.py`; the sources are in `tools/art/painted20/src/`. Per Canva's terms for AI-generated content. The painted ground, house fronts, stone courses and the re-coloured trees of `js/painted20.js` are the game's own code, painted at load from the embedded tiles' and sprites' own tones.
 - `img/pixel3d/`: the pixel-3D set (Phase 25): the game's own painted sprites extruded into voxel models and rendered to five-view pixel sprites by **Blender** (the `bpy` Python module, GPL-2.0+, a build tool only; nothing of Blender ships) in `tools/art/pixel3d/voxelise.py`; the bestiary, the Proctor, the companions and every named person are turned at run time from their paintings instead (`js/bestiary20a.js`, `js/bestiary20b.js`, `js/people25.js`). No outside asset: every pixel comes from the paintings already credited above.
 - `screenshots/`: captures of the game for the README.
 

diff --git a/story/Game Layer/Phase 20b - New In-Game Text.md b/story/Game Layer/Phase 20b - New In-Game Text.md
@@ -38,3 +38,11 @@ FR: Sol peint / herbe et mousse qui changent d’une case à l’autre : trèfle
 1. Brick nogging: right for Oakhaven, or timber-and-plaster only?
 2. The painted pieces come from Canva's image generator (the same source as five of the area cards). Go on with it for the rest of the stand-ins (the open and side barrels, the second statue, the stone head, the cracks and scorch), or keep those drawn?
 3. The Chapel bell stays undrawn, as the story keeps the frame empty. Phase 20's roadmap line asked for "a visible Chapel bell"; it is closed as *not until the story rings one*.
+
+## Going on with the stand-ins (October 2026)
+
+Sleeves answered question 2: start painting the rest. Canva's image generator is the one painting source this cloud session can reach (the local model in tools/art/paint.py cannot be downloaded here, and Canva's full-size downloads are blocked, so it hands back 200-pixel pictures: enough for props and wall marks, not for full-screen cards). Its quota allows about three pictures at a time, so the remaining pieces come in small batches.
+
+- **Painted so far:** the open barrel and the barrel on its side (tools/art/painted20/src/barrel_open.png, barrel_side.png), given depth like the other painted props (js/pixel3d.js).
+- **Contact shadows:** every painted prop now keeps its drawn stand-in's dithered contact shadow (tools/art/painted20/key.py SHADOW). Without it the lighting module's soft shadow fell a little in front of the base and the Phase 20b props seemed to hover. No new text.
+- **Still to paint:** the second statue, the stone head, the third grass tuft, the second reed, two mosses, two cracks, two scorch marks, two posters and the second Synod notice.

diff --git a/ASSETS.md b/ASSETS.md
@@ -133,7 +133,7 @@ Phase 20b (js/painted20.js, Options → Painted pieces): paintings swapped in un
 
 | Files | Replaces | Source | Licence | Status |
 |---|---|---|---|---|
-| p_barrel, p_crate, p_cart, p_cart_broken, p_statue_broken, p_bones_small | scenery props (js/scenery.js) | Canva AI image generation, keyed by tools/art/painted20/key.py | Per Canva's terms for AI-generated content on the owner's account | generated |
+| p_barrel, p_barrel_open, p_barrel_side, p_crate, p_cart, p_cart_broken, p_statue_broken, p_bones_small | scenery props (js/scenery.js); each keeps its stand-in's dithered contact shadow | Canva AI image generation, keyed by tools/art/painted20/key.py | Per Canva's terms for AI-generated content on the owner's account | generated |
 | p_grass1, p_grass2, p_reed1 | grass tufts and reeds (js/flora.js) | the same | the same | generated |
 | d_poster1, d_synod1, d_moss1 | a wall notice, a Synod notice, a moss patch (js/decals.js) | the same | the same | generated |
 
